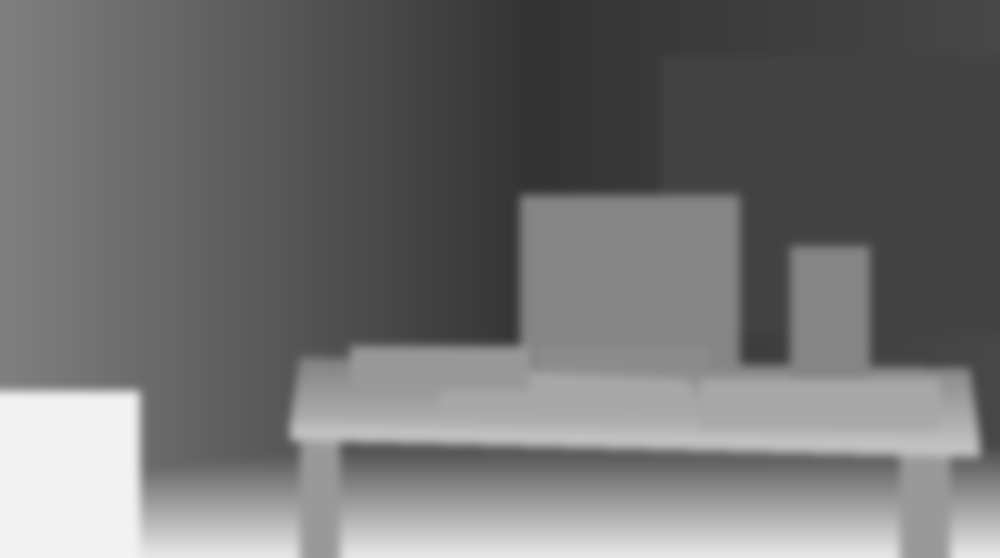
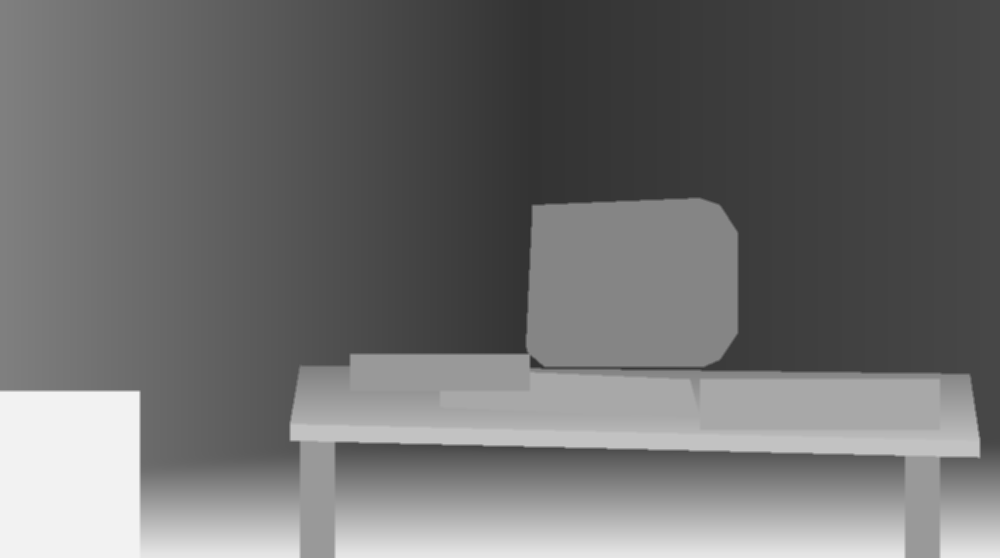
Ljud: bil som kör förbi och 8-bitars vinstfanfar
- Bilens ljuskägla har fått ett ljud (carPass): en bil på blöt gata med
  däckväs, dovt motorljud, dopplereffekt och panorering vänster -> höger.
  Det dämpas som genom en källarvägg och varierar lite varje gång. Båda
  rummen signalerar via onCarPass när svepet börjar, så ljud och ljus
  startar samtidigt.
- Vinstfanfar (victoryFanfare) när vinnarnamnet låser sig, i stället för
  pipet: en egen I–IV–V–I-komposition med NES-klang (fyrkant, pulsvåg,
  triangel). Ingen kopia av någon spelmelodi.
- Djupkartan är omgjord med datorns uppmätta kontur och skarpa kanter.
  Den gamla suddiga rektangeln gav en mörk ram runt datorn när
  ljuskäglan passerade.

Regnljud prövades men valdes bort (lät som en datorfläkt).

diff --git a/src/audio.ts b/src/audio.ts
@@ -222,3 +222,154 @@ export function rattle(dur = 2.6) {
     gap = Math.max(0.028, gap * 0.94);
   }
 }
+
+/**
+ * Bil som kör förbi på blöt gata utanför: däckväs, dovt motorljud, dopplereffekt och panorering vänster -> höger.
+ * Synkas med bilens ljuskägla (som är starkast mitt i svepet). Dämpat, som genom en källarvägg, och lite olika varje gång.
+ * Spelas bara om ljudet redan är upplåst (boot-gaten), så inget AudioContext skapas utan användargest.
+ */
+export function carPass(dur = 5) {
+  if (!ctx || ctx.state !== 'running') return;
+  const c = ctx;
+  const t0 = c.currentTime + 0.05;
+  const mid = t0 + dur * 0.5;
+  const end = t0 + dur;
+  const vary = 0.85 + Math.random() * 0.3; // olika bilar: tonhöjd och styrka
+
+  const out = c.createGain();
+  out.gain.setValueAtTime(0.0001, t0);
+  out.gain.exponentialRampToValueAtTime(0.16 * vary, mid); // närmast mitt i svepet
+  out.gain.exponentialRampToValueAtTime(0.0001, end);
+  const pan = c.createStereoPanner();
+  pan.pan.setValueAtTime(-0.85, t0);
+  pan.pan.linearRampToValueAtTime(0.85, end);
+  // Väggen: mörkare ljud långt bort, ljusare när bilen är som närmast
+  const wall = c.createBiquadFilter();
+  wall.type = 'lowpass';
+  wall.frequency.setValueAtTime(700, t0);
+  wall.frequency.exponentialRampToValueAtTime(2600, mid);
+  wall.frequency.exponentialRampToValueAtTime(600, end);
+  out.connect(wall).connect(pan).connect(c.destination);
+
+  // Däck mot blöt asfalt: brus i ett band som glider nedåt när bilen passerat (doppler)
+  const hiss = c.createBufferSource();
+  hiss.buffer = noiseBuffer(c, dur + 0.3);
+  const band = c.createBiquadFilter();
+  band.type = 'bandpass';
+  band.Q.value = 0.7;
+  band.frequency.setValueAtTime(1500 * vary, t0);
+  band.frequency.linearRampToValueAtTime(1700 * vary, mid - 0.15);
+  band.frequency.exponentialRampToValueAtTime(950 * vary, mid + 0.35);
+  band.frequency.linearRampToValueAtTime(800 * vary, end);
+  const hg = c.createGain();
+  hg.gain.value = 1.0;
+  hiss.connect(band).connect(hg).connect(out);
+  hiss.start(t0);
+  hiss.stop(end + 0.1);
+
+  // Motor: två lågt filtrerade sågtänder som glider ned över passagen
+  for (const [f, v] of [[46, 0.5], [92, 0.25]] as const) {
+    const o = c.createOscillator();
+    o.type = 'sawtooth';
+    o.frequency.setValueAtTime(f * 1.07 * vary, t0);
+    o.frequency.linearRampToValueAtTime(f * 1.05 * vary, mid - 0.2);
+    o.frequency.exponentialRampToValueAtTime(f * 0.93 * vary, mid + 0.4);
+    const lp = c.createBiquadFilter();
+    lp.type = 'lowpass';
+    lp.frequency.value = 220;
+    const og = c.createGain();
+    og.gain.value = v;
+    o.connect(lp).connect(og).connect(out);
+    o.start(t0);
+    o.stop(end + 0.1);
+  }
+  // Lågt rummel från vägen
+  const rumble = c.createBufferSource();
+  rumble.buffer = noiseBuffer(c, dur + 0.3);
+  const rl = c.createBiquadFilter();
+  rl.type = 'lowpass';
+  rl.frequency.value = 120;
+  const rg = c.createGain();
+  rg.gain.value = 1.4;
+  rumble.connect(rl).connect(rg).connect(out);
+  rumble.start(t0);
+  rumble.stop(end + 0.1);
+}
+
+// ---------- Vinstfanfar i 8-bitarsstil ----------
+// Egen komposition (I–IV–V–I i C-dur), inte en kopia av någon spelmelodi. NES-känsla: pulsvåg 50 % och 25 %,
+// triangelvåg i basen, raka toner med kort attack och tvärt slut.
+const HZ: Record<string, number> = {
+  C3: 130.81, F3: 174.61, G3: 196.0,
+  G4: 392.0, C5: 523.25, D5: 587.33, E5: 659.25, F5: 698.46, G5: 783.99, A5: 880.0, B5: 987.77,
+  C6: 1046.5, D6: 1174.66, E6: 1318.51,
+};
+
+let pulse25: PeriodicWave | null = null;
+function pulseWave(c: AudioContext, duty: number): PeriodicWave {
+  const n = 32;
+  const re = new Float32Array(n);
+  const im = new Float32Array(n);
+  for (let k = 1; k < n; k++) im[k] = (2 / (k * Math.PI)) * Math.sin(k * Math.PI * duty);
+  return c.createPeriodicWave(re, im);
+}
+
+function chipNote(
+  c: AudioContext,
+  out: AudioNode,
+  freq: number,
+  start: number,
+  dur: number,
+  vol: number,
+  kind: 'square' | 'pulse25' | 'triangle',
+  vibrato = false,
+) {
+  const o = c.createOscillator();
+  if (kind === 'pulse25') o.setPeriodicWave((pulse25 ??= pulseWave(c, 0.25)));
+  else o.type = kind;
+  o.frequency.setValueAtTime(freq, start);
+  if (vibrato) {
+    const lfo = c.createOscillator();
+    const depth = c.createGain();
+    lfo.frequency.value = 6;
+    depth.gain.setValueAtTime(0, start);
+    depth.gain.linearRampToValueAtTime(freq * 0.012, start + 0.25);
+    lfo.connect(depth).connect(o.frequency);
+    lfo.start(start);
+    lfo.stop(start + dur + 0.05);
+  }
+  const g = c.createGain();
+  g.gain.setValueAtTime(0, start);
+  g.gain.linearRampToValueAtTime(vol, start + 0.006);
+  g.gain.setValueAtTime(vol, start + dur - 0.03);
+  g.gain.linearRampToValueAtTime(0, start + dur);
+  o.connect(g).connect(out);
+  o.start(start);
+  o.stop(start + dur + 0.02);
+}
+
+/** "Banan klarad": snabb arpeggio uppåt, två ackordstötar och ett hållet slutackord. ~2,3 s. */
+export function victoryFanfare() {
+  const c = ensureAudio();
+  const out = c.createGain();
+  out.gain.value = 0.085;
+  out.connect(c.destination);
+  const t0 = c.currentTime + 0.03;
+  const s = 0.075; // en sextondel
+  // Arpeggio uppåt
+  ['G4', 'C5', 'E5', 'G5', 'C6'].forEach((n, i) => chipNote(c, out, HZ[n], t0 + i * s, s * (i === 4 ? 3 : 0.95), 1, 'square'));
+  chipNote(c, out, HZ.C3, t0, s * 5, 0.9, 'triangle');
+  // Stötar: IV och V
+  const stab = (at: number, lead: string, harm: string[], bass: string) => {
+    chipNote(c, out, HZ[lead], at, s * 1.8, 1, 'square');
+    harm.forEach((h) => chipNote(c, out, HZ[h], at, s * 1.8, 0.55, 'pulse25'));
+    chipNote(c, out, HZ[bass], at, s * 1.8, 0.9, 'triangle');
+  };
+  stab(t0 + s * 8, 'C6', ['F5', 'A5'], 'F3');
+  stab(t0 + s * 11, 'D6', ['G5', 'B5'], 'G3');
+  // Slutackord, hållet med vibrato
+  const end = t0 + s * 14;
+  chipNote(c, out, HZ.E6, end, 1.05, 1, 'square', true);
+  ['C5', 'E5', 'G5'].forEach((h) => chipNote(c, out, HZ[h], end, 1.05, 0.5, 'pulse25'));
+  chipNote(c, out, HZ.C3, end, 1.05, 0.9, 'triangle');
+}

diff --git a/src/main.ts b/src/main.ts
@@ -5,7 +5,7 @@ import { PlateRoom } from './room-plate';
 import type { PlateJson, RoomLike } from './room-types';
 import { savePlateFile, startCalibrate, isCalibrateTarget } from './plate-tools';
 import { CONFIG, BASE } from './config';
-import { ensureAudio, playModem, playHum, blip, whoosh, keyClick } from './audio';
+import { ensureAudio, playModem, playHum, blip, whoosh, keyClick, carPass, victoryFanfare } from './audio';
 import { REVEAL } from './canvases';
 
 
@@ -47,6 +47,8 @@ async function createRoom(canvas: HTMLCanvasElement): Promise<RoomLike> {
 }
 
 const room = await createRoom($<HTMLCanvasElement>('gl'));
+// Bilen utanför: ljudet följer ljuskäglan (spelas bara när ljudet är upplåst)
+room.onCarPass = (dur) => carPass(dur);
 
 // Utvecklarlägen för fotorummet: ?export=plate (rendera kodrummet som bilder), ?calibrate=screen|blinds|pane|sign|window
 if (params.get('export') === 'plate' && room instanceof Room) {
@@ -526,7 +528,7 @@ function goReveal() {
     room.paused = false;
     room.revealOnScreen(winnerName(), now);
     stopHum = playHum();
-    // Rasslet: täta, oregelbundna tangentklick tills sista tecknet låst sig, ett pip när namnet står
+    // Rasslet: täta, oregelbundna tangentklick tills sista tecknet låst sig, sedan vinstfanfaren
     const clicks = { n: 0 };
     gsap.to(clicks, {
       n: 90,
@@ -536,7 +538,7 @@ function goReveal() {
         if (Math.random() < 0.55) keyClick();
       },
     });
-    gsap.delayedCall(REVEAL.lockedAt, () => blip(1320, 0.12));
+    gsap.delayedCall(REVEAL.lockedAt, victoryFanfare); // 8-bitars "banan klarad" när namnet står
     // Sedan åker kameran långsamt ut till rummet, så man ser datorn med namnet på skärmen
     gsap.to(room, {
       zoom: 0,

diff --git a/src/room.ts b/src/room.ts
@@ -60,6 +60,8 @@ export class Room {
   promptSubmitted = false;
   /** Vinnarens reponamn för skärmläget 'reveal'. */
   winnerName = '';
+  /** Anropas när bilens ljuskägla börjar svepa (sekunder). main.ts spelar ljudet. */
+  onCarPass: ((dur: number) => void) | null = null;
   private fitDist = 1;
   private screenGroup = new THREE.Group();
   private screenCenter = new THREE.Vector3(0.9, 1.2, -1.646);
@@ -478,7 +480,10 @@ export class Room {
     (this.ledPink.material as THREE.MeshBasicMaterial).color.setScalar(pw * (Math.sin(t * 2.2) > 0.2 ? 1.6 : 0.2)).multiply(new THREE.Color(0xff3d7f));
 
     // Bilens ljuskägla över bakväggen var ~12–18 s
-    if (this.carT < 0 && t > this.carNext && lit > 0.8) this.carT = 0;
+    if (this.carT < 0 && t > this.carNext && lit > 0.8) {
+      this.carT = 0;
+      this.onCarPass?.(5); // ljudet av bilen, samma längd som ljussvepet
+    }
     if (this.carT >= 0) {
       this.carT += dt / 5;
       const k = this.carT;

diff --git a/src/room-plate.ts b/src/room-plate.ts
@@ -109,6 +109,8 @@ export class PlateRoom implements RoomLike {
   promptSubmitted = false;
   /** Vinnarens reponamn för skärmläget 'reveal'. */
   winnerName = '';
+  /** Anropas när bilens ljuskägla börjar svepa (sekunder). main.ts spelar ljudet. */
+  onCarPass: ((dur: number) => void) | null = null;
   screenState: ScreenState = 'off';
 
   private mouse = new THREE.Vector2();
@@ -499,7 +501,10 @@ export class PlateRoom implements RoomLike {
 
     // Bilens ljuskägla över väggarna var ~12–18 s
     const car = u.uCar.value as THREE.Vector2;
-    if (this.carT < 0 && t > this.carNext && this.lit > 0.8) this.carT = 0;
+    if (this.carT < 0 && t > this.carNext && this.lit > 0.8) {
+      this.carT = 0;
+      this.onCarPass?.(5); // ljudet av bilen, samma längd som ljussvepet
+    }
     if (this.carT >= 0) {
       this.carT += dt / 5;
       const k = this.carT;

diff --git a/src/plate-shader.ts b/src/plate-shader.ts
@@ -103,6 +103,9 @@ float insideMask(vec2 uv, vec2 aa) {
 
 vec3 grade() { return mix(vec3(1.0), vec3(1.22, 0.8, 0.9), uWinner * 0.7); }
 
+// Bilens strålkastare: ett mjukt band som sveper över väggarna (det som djupkartan säger ligger långt bort).
+// Föremål nära kameran, som datorn, lämnas mörka. Djupkartan behöver skarpa kanter som följer konturerna,
+// annars blir det en mörk ram runt föremålen (se docs/room/PROMPTS.md).
 vec3 carLight(vec2 q, float z, vec3 base) {
   float band = exp(-pow((q.x - uCar.x) / 0.09, 2.0));
   float far = smoothstep(0.55, 0.15, z);

diff --git a/src/room-types.ts b/src/room-types.ts
@@ -25,6 +25,8 @@ export interface RoomLike {
   pointOnScreen(cx: number, cy: number, pad?: number): boolean;
   screenNdcBounds(): { minX: number; maxX: number; minY: number; maxY: number };
   update(dt: number, t: number): void;
+  /** Anropas när bilens ljuskägla börjar svepa över rummet (längd i sekunder). */
+  onCarPass: ((dur: number) => void) | null;
 }
 
 /** Fyra hörn i bilden, normaliserade 0–1 (x åt höger, y nedåt), ordning: övre vänster, övre höger, nedre höger, nedre vänster. */

diff --git a/docs/devlog/2026-11-11-rum-fotorealism.md b/docs/devlog/2026-11-11-rum-fotorealism.md
@@ -62,6 +62,32 @@ Geometrierna skilde sig åt, så texten syntes dubbel och hoppade till. Nu räta
 skärmens homografi (60–100 % zoom, `uRect` i `plate-shader.ts`), så att skärmen vid full zoom fyller fönstret exakt.
 Det finns alltså aldrig två bilder samtidigt. Glasreflexen tonas bort i takt med upprätningen. Verifierat i stillbilder vid 55, 70, 80, 90, 95 och 100 %.
 
+## Uppdatering 2026-11-12: ljudet av bilen
+Bilens ljuskägla har fått ett ljud (`carPass` i `src/audio.ts`). Det är en bil på blöt gata (bilden har regn på rutan):
+däckväs i ett brusband, ett dovt motorljud av två sågtänder och lågt vägrummel. En dopplereffekt sänker tonhöjden
+när bilen passerat. Ljudet panoreras från vänster till höger som ljuset och lågpassfiltreras som genom en källarvägg,
+ljusast mitt i passagen. Varje passage varierar ±15 % i tonhöjd och styrka, så det inte blir tjatigt.
+- Synk: båda rummen anropar `onCarPass(5)` (nytt i `RoomLike`) samtidigt som svepet startar. `main.ts` spelar ljudet.
+- Ljudet spelas bara om AudioContext redan är upplåst av boot-gaten, så `?skip=`-lägen förblir tysta.
+- Verifierat: anropet sker i samma bildruta som svepet startar, och inga konsolfel. **Inte avlyssnat** av en människa.
+
+Rättning samma dag: när ljuskäglan passerade blev det en mörk ram runt datorn. Ljuset maskas med djupkartan
+(bara väggar långt bort får ljus, datorn ska vara mörk), men den handgjorda djupkartan hade datorn som en suddig
+rektangel. Den suddiga kanten gjorde att väggen runt datorn räknades som nära. Djupkartan är omgjord: datorn har sin
+uppmätta kontur (frontram, bakre kåpa, fot) med skarpa kanter, och föremålen målas efter suddningen av väggarna,
+så att ingen gloria uppstår. Lampan och hyllan målas inte längre (tunna föremål, rektanglar gav fel mask).
+Ett försök att ta bort djupmasken helt lyste upp datorn också, vilket Elin inte ville ha.
+Verifierat: förstärkt ljus över datorn ger ingen ram, och musen helt ut åt sidorna ger inga kantfel i parallaxen.
+
+## Uppdatering 2026-11-12: vinstfanfar
+- **Vinstfanfar** (`victoryFanfare` i `src/audio.ts`) spelas när vinnarnamnet låst sig (`REVEAL.lockedAt`) och ersätter pipet.
+  Elin ville ha något som liknar "banan klarad" i 8-bitars Super Mario. Själva melodin är upphovsrättsskyddad och kopieras inte.
+  Fanfaren är en egen komposition (I–IV–V–I i C-dur) med NES-känsla: fyrkantsvåg för melodin, 25 %-pulsvåg för stämmorna,
+  triangelvåg i basen, snabb arpeggio uppåt, två ackordstötar och ett hållet slutackord med vibrato (~2,3 s).
+- **Regnljud** prövades (först filtrerat brus, sedan tusentals små dropp-impulser), men lät som en datorfläkt
+  och blev inte bra. Elin valde bort det, och det är helt borttaget.
+- Verifierat: fanfaren spelar utan fel i konsolen och bygget går igenom. **Inte avlyssnad** av en människa.
+
 ## Öppna frågor
 - Ljudet i scen 3 (tangentklick + pip) är inte avlyssnat av en människa.
 - **Djupkartan** är grov och handgjord. En riktig (Depth Anything eller liknande) ger bättre parallax.
